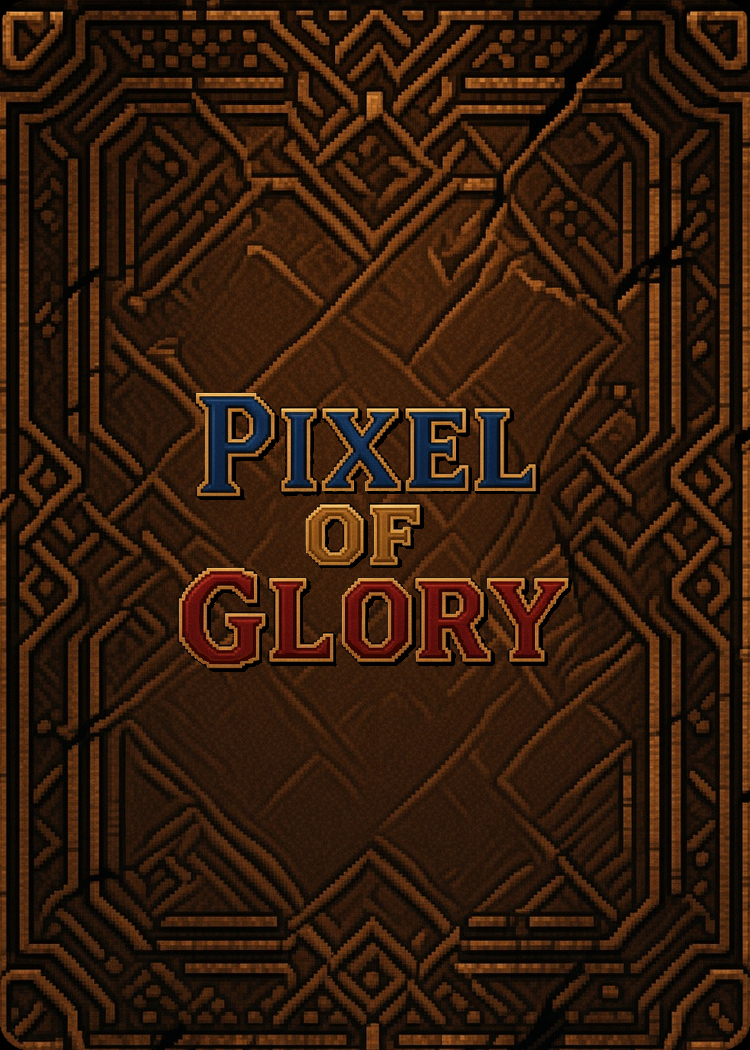
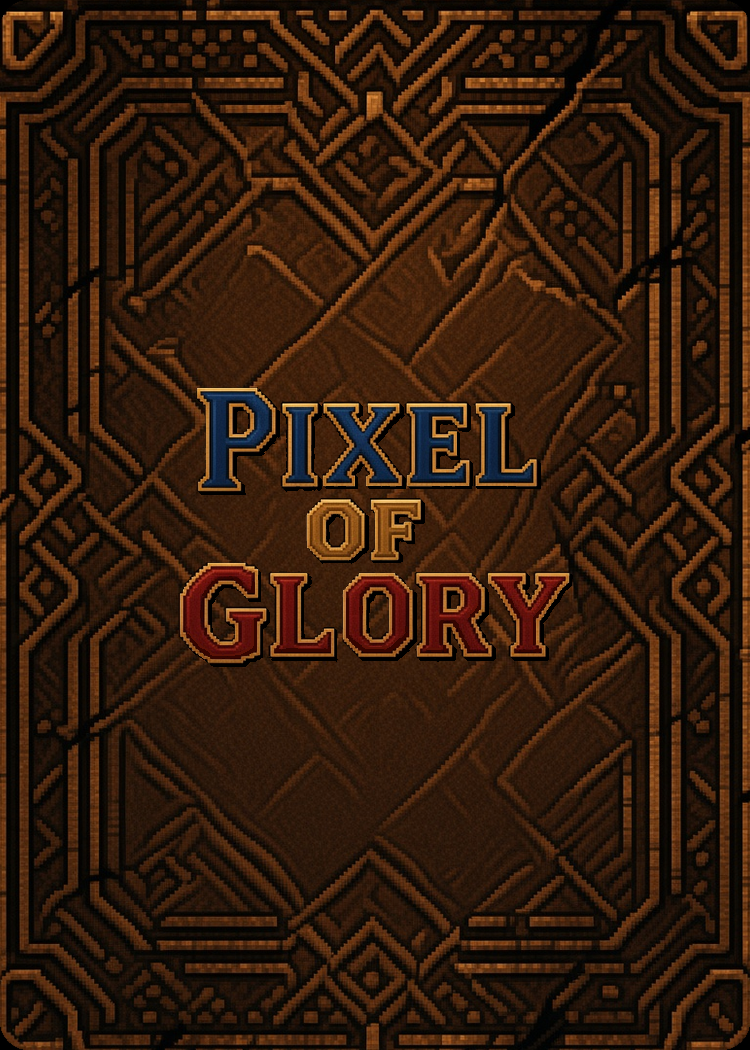
03e V3 centré sur le dos 06 (lettres, pas l’ombre)
Le titre est collé au milieu du fond géométrique, ras et fond perdu,
en ignorant l’ombre pixel noire pour le centrage.

Changed region(s): [[0.2147, 0.3657, 0.7667, 0.64]]

diff --git a/DosCartes/apercu.html b/DosCartes/apercu.html
@@ -66,6 +66,7 @@
 <figure><img src="exemples/mix_03e_90_sur_livre_fondperdu.png" alt="mix_03e_90_sur_livre_fondperdu"><figcaption>mix 03e 90° antihoraire sur livre fondperdu</figcaption></figure>
 <figure><img src="exemples/mix_03e_v3_sur_brun.png" alt="mix_03e_v3_sur_brun"><figcaption>mix 03e V3 sur brun</figcaption></figure>
 <figure><img src="exemples/mix_03e_v3_sur_obsidienne.png" alt="mix_03e_v3_sur_obsidienne"><figcaption>mix 03e V3 sur obsidienne</figcaption></figure>
-<figure><img src="exemples/mix_03e_v3_sur_livre_brun.png" alt="mix_03e_v3_sur_livre_brun"><figcaption>mix 03e V3 sur livre brun</figcaption></figure></div>
+<figure><img src="exemples/mix_03e_v3_sur_livre_brun.png" alt="mix_03e_v3_sur_livre_brun"><figcaption>mix 03e V3 sur livre brun</figcaption></figure>
+<figure><img src="exemples/mix_03e_v3_sur_livre_fondperdu.png" alt="mix_03e_v3_sur_livre_fondperdu"><figcaption>mix 03e V3 sur livre fondperdu</figcaption></figure></div>
 </body>
 </html>

diff --git a/DosCartes/scripts/separer_logos_fonds.py b/DosCartes/scripts/separer_logos_fonds.py
@@ -375,6 +375,33 @@ def paste_logo_on_fond(fond: Image.Image, logo_rgba: np.ndarray, scale: float = 
     return Image.alpha_composite(bg, card).convert("RGB")
 
 
+def letter_bbox(rgba: np.ndarray, luma_min: int = 40) -> tuple[int, int, int, int]:
+    """Boîte des lettres, en ignorant l’ombre noire."""
+    a = rgba[..., 3] > 10
+    lum = rgba[..., :3].mean(axis=2)
+    letters = a & (lum > luma_min)
+    ys, xs = np.where(letters)
+    if len(xs) == 0:
+        ys, xs = np.where(a)
+    return int(xs.min()), int(ys.min()), int(xs.max()) + 1, int(ys.max()) + 1
+
+
+def paste_logo_visual_center(
+    fond: Image.Image, logo_rgba: np.ndarray, scale: float = 0.72
+) -> Image.Image:
+    """Centre le titre (pas l’ombre) au milieu du fond, horizontal et vertical."""
+    card = fond.convert("RGBA")
+    fw, fh = card.size
+    logo = _fit_logo(Image.fromarray(logo_rgba), scale)
+    arr = np.asarray(logo.convert("RGBA"))
+    x0, y0, x1, y1 = letter_bbox(arr)
+    x = int(round(fw / 2.0 - (x0 + x1) / 2.0))
+    y = int(round(fh / 2.0 - (y0 + y1) / 2.0))
+    card.alpha_composite(Image.fromarray(arr), (x, y))
+    bg = Image.new("RGBA", (fw, fh), (0, 0, 0, 255))
+    return Image.alpha_composite(bg, card).convert("RGB")
+
+
 def paste_logo_in_rect(
     fond: Image.Image,
     logo_rgba: np.ndarray,
@@ -639,7 +666,6 @@ def main() -> None:
     v3p = LOGOS / "03e_titre_trois_lignesV3.png"
     if v3p.exists():
         logo_v3 = crop_alpha(np.asarray(Image.open(v3p).convert("RGBA")), pad=6)
-        fond06 = FONDS / "06_livre_brun.png"
         for fond_im, mix_name in (
             (fond_cuir, "mix_03e_v3_sur_brun"),
             (fond_obs, "mix_03e_v3_sur_obsidienne"),
@@ -647,9 +673,17 @@ def main() -> None:
             p = exemples / f"{mix_name}.png"
             paste_logo_on_fond(fond_im, logo_v3, 0.72).save(p, "PNG", optimize=True)
             mixes.append(p)
-        if fond06.exists():
-            p = exemples / "mix_03e_v3_sur_livre_brun.png"
-            paste_logo_on_fond(Image.open(fond06), logo_v3, 0.72).save(p, "PNG", optimize=True)
+        for fond_name, mix_name in (
+            ("06_livre_brun", "mix_03e_v3_sur_livre_brun"),
+            ("06_livre_brun_fondperdu", "mix_03e_v3_sur_livre_fondperdu"),
+        ):
+            fp = FONDS / f"{fond_name}.png"
+            if not fp.exists():
+                continue
+            p = exemples / f"{mix_name}.png"
+            paste_logo_visual_center(Image.open(fp), logo_v3, 0.72).save(
+                p, "PNG", optimize=True
+            )
             mixes.append(p)
 
     write_apercu(logos, fonds_meta, mixes)

diff --git a/DosCartes/scripts/preparer_logo_03e_v3.py b/DosCartes/scripts/preparer_logo_03e_v3.py
@@ -17,6 +17,7 @@ from separer_logos_fonds import (
     LOGOS,
     crop_alpha,
     paste_logo_on_fond,
+    paste_logo_visual_center,
     preview_checker,
 )
 
@@ -71,16 +72,18 @@ def main() -> None:
 
     exemples = LOGOS.parent / "exemples"
     exemples.mkdir(parents=True, exist_ok=True)
-    for fond_name, mix_name, sc in (
-        ("01_cuir_brun", "mix_03e_v3_sur_brun", 0.72),
-        ("06_livre_brun", "mix_03e_v3_sur_livre_brun", 0.72),
-        ("04_obsidienne", "mix_03e_v3_sur_obsidienne", 0.72),
+    for fond_name, mix_name, sc, centered in (
+        ("01_cuir_brun", "mix_03e_v3_sur_brun", 0.72, False),
+        ("04_obsidienne", "mix_03e_v3_sur_obsidienne", 0.72, False),
+        ("06_livre_brun", "mix_03e_v3_sur_livre_brun", 0.72, True),
+        ("06_livre_brun_fondperdu", "mix_03e_v3_sur_livre_fondperdu", 0.72, True),
     ):
         fp = FONDS / f"{fond_name}.png"
         if not fp.exists():
             continue
         p = exemples / f"{mix_name}.png"
-        paste_logo_on_fond(Image.open(fp), v3, sc).save(p, "PNG", optimize=True)
+        paste = paste_logo_visual_center if centered else paste_logo_on_fond
+        paste(Image.open(fp), v3, sc).save(p, "PNG", optimize=True)
         print("mix", p.name)
 
 
